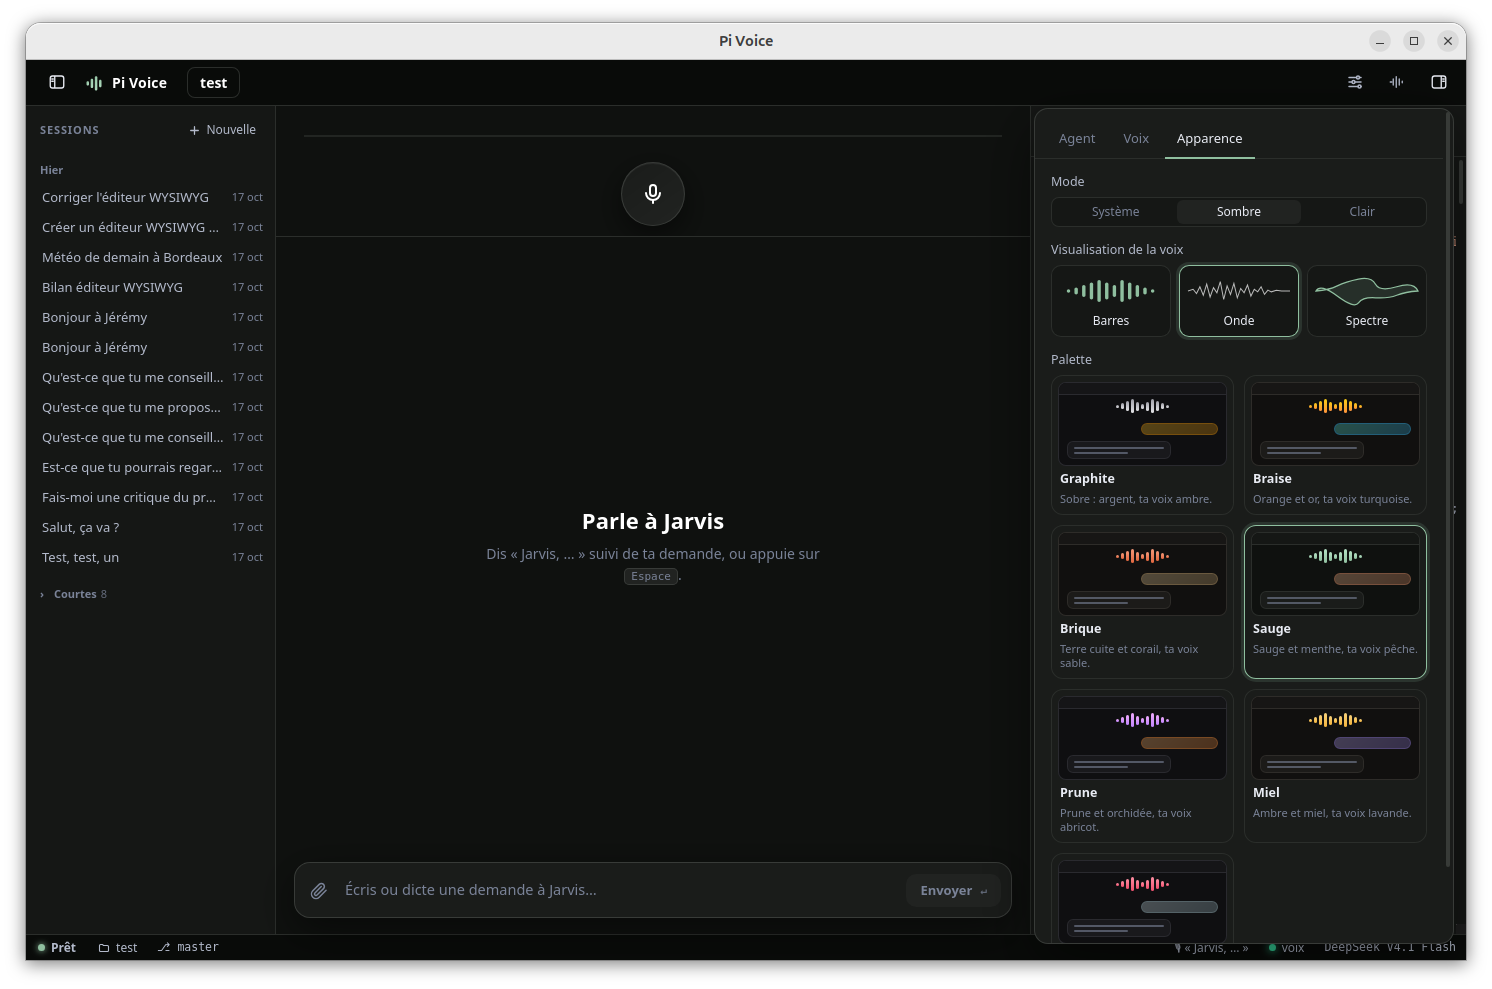
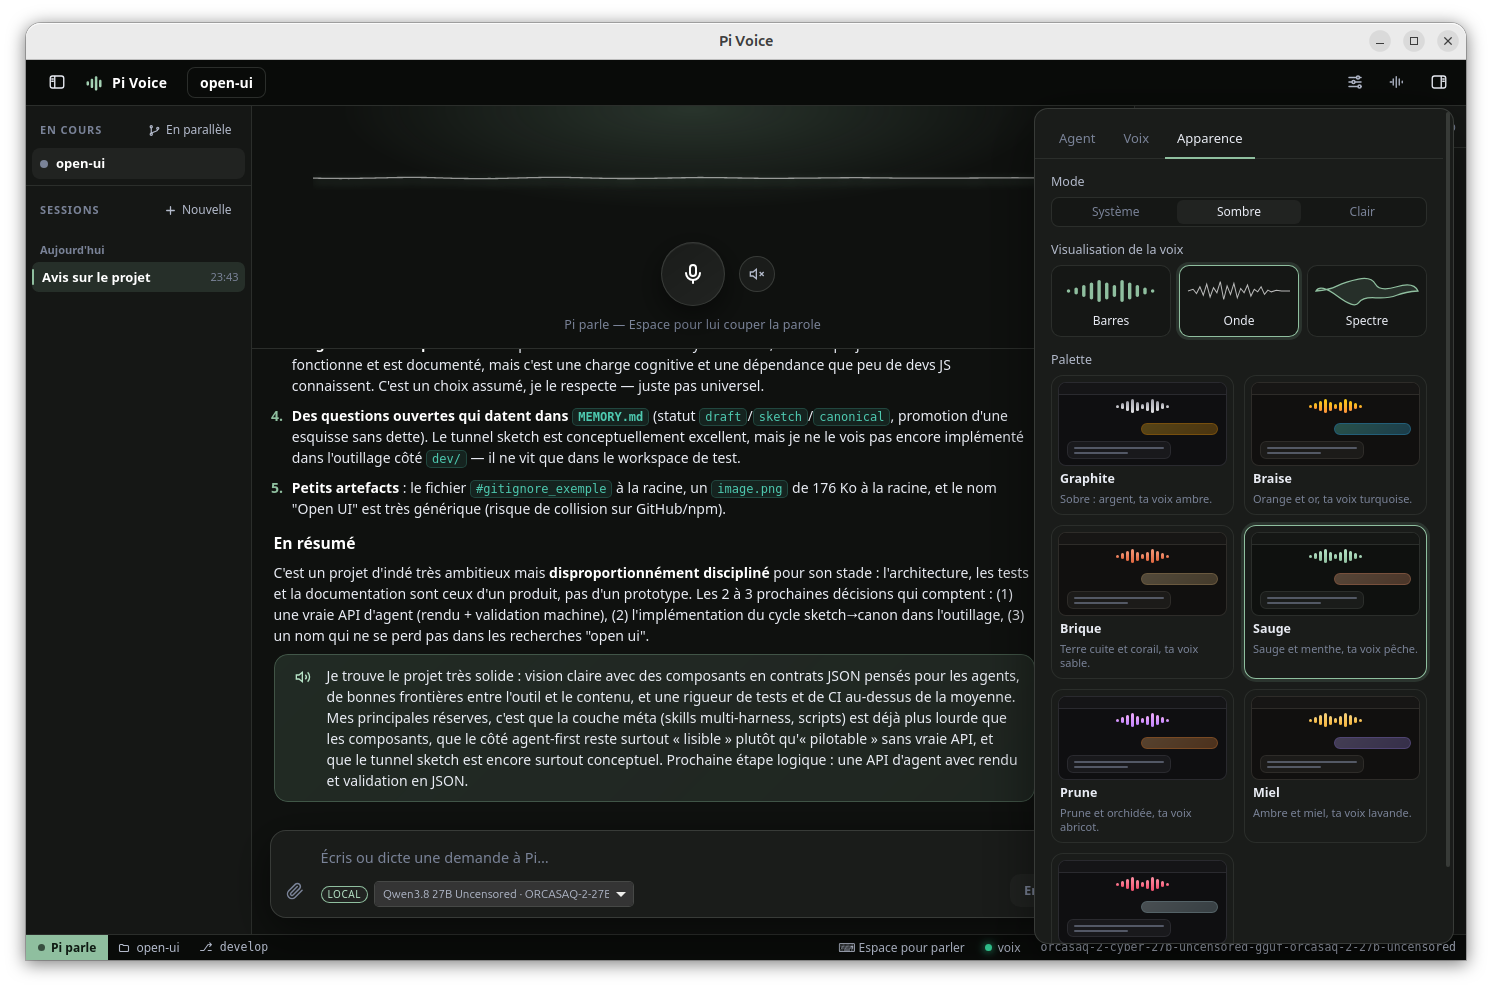
README : captures d'écran à jour (conversation, onglets Agent, Voix, Apparence)

diff --git a/README.md b/README.md
@@ -2,11 +2,11 @@
 
 Surcouche vocale pour [pi](https://github.com/earendil-works/pi), un agent de code. Tu lui parles, tu vois ton texte s'écrire en direct, pi travaille juste à côté, puis il te répond à voix haute. Un égaliseur s'anime pendant qu'il parle, et `Espace` lui coupe la parole à tout moment.
 
-![Conversation avec l'agent, sessions à gauche, diff coloré du fichier modifié à droite](docs/screenshots/conversation-diff.png)
+![Conversation avec l'agent : sessions à gauche, fichiers du projet à droite](docs/screenshots/conversation.png)
 
-| Apparence : mode, visualisation de la voix, palettes | Voix : choix de la voix, lecture vocale, agent vocal |
-|---|---|
-| ![Réglages, onglet Apparence](docs/screenshots/apparence.png) | ![Réglages, onglet Voix](docs/screenshots/voix.png) |
+| Agent : nom, modèle, fournisseurs, prompt système | Voix : choix de la voix, lecture vocale, agent vocal | Apparence : mode, visualisation de la voix, palettes |
+|---|---|---|
+| ![Réglages, onglet Agent](docs/screenshots/agent.png) | ![Réglages, onglet Voix](docs/screenshots/voix.png) | ![Réglages, onglet Apparence](docs/screenshots/apparence.png) |
 
 Tout est open source et tourne en local. Seul le modèle de langage reste celui que pi utilise déjà.
 
